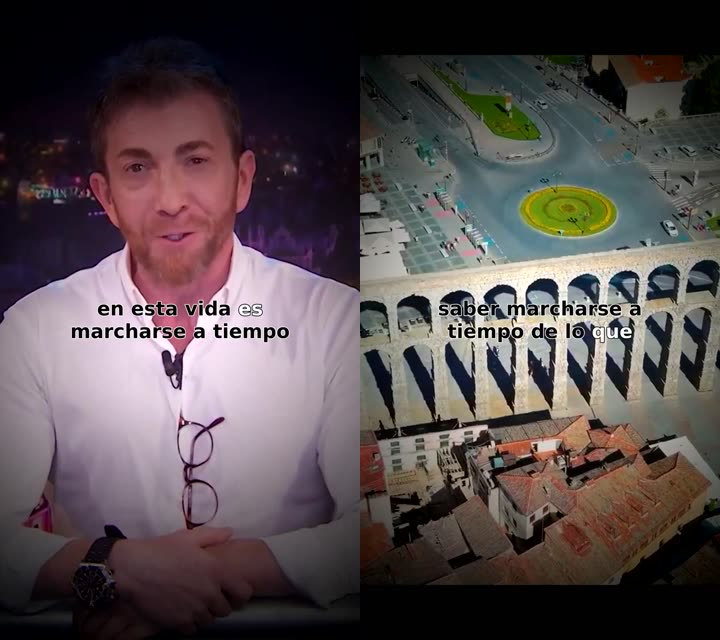
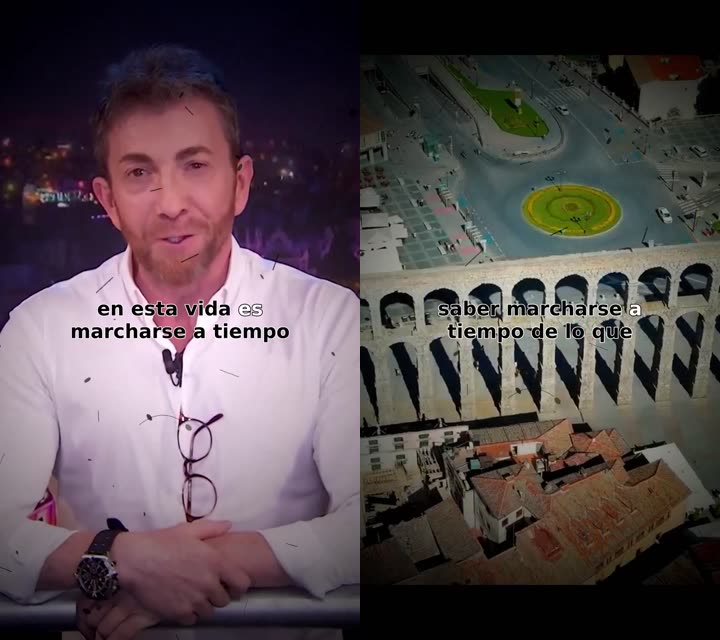
chore(viralizacion): miniaturas de los 8 estilos al dia
Incluye la del estilo D nuevo y borra la del desaparecido teal_orange.

Dos arreglos del script que lo tenian roto:

- Leia `hook_candidates.json` a pelo, y asi no obtiene la ruta del gancho
  PRE-CORTADO. Como los videos de gancho originales ya no estan en disco (se
  subieron a Drive para no llenar el VPS), el render moria con `-i None`.
  Ahora usa `scan_hook_candidates`, que si la resuelve — y no
  `allocate_hook`, que marcaria el gancho como gastado del banco.

- El fotograma del paisaje se sacaba en el segundo 9.0, donde el bloque de
  texto solia estar en su PRIMERA palabra: los estilos que apilan (D, E, G)
  parecian no apilar nada. A 8.4 se ve el bloque entero.

diff --git a/scripts/viralizacion_previews.py b/scripts/viralizacion_previews.py
@@ -36,7 +36,7 @@ from src.viralizacion.pipeline.renderer import (  # noqa: E402
     build_paisaje_segments,
     render_video,
 )
-from src.viralizacion.services import clip_library  # noqa: E402
+from src.viralizacion.services import allocator, clip_library  # noqa: E402
 
 # Ponente de las muestras. Se puede cambiar con VIRALIZACION_PREVIEW_PONENTE
 # para revisar el encuadre de otro (el recorte cuadrado depende de dónde
@@ -52,7 +52,9 @@ SAMPLE_DUR = 14.0
 # Instantes de los que se saca cada fotograma: dentro del gancho y ya en
 # pleno b-roll (después de que entren las barras de cine).
 T_GANCHO = 2.0
-T_PAISAJE = 9.0
+# 8.4 y no 9.0: en 9.0 el bloque de texto solía estar en su PRIMERA palabra y
+# los estilos que apilan (D, E, G) parecían no apilar nada.
+T_PAISAJE = 8.4
 
 
 def _muestra(key: str, hook: dict, audio: Path, words: list[dict]) -> Path:
@@ -126,11 +128,13 @@ def main() -> None:
     pedidos = sys.argv[1:] or list(styles.STYLE_ORDER)
     WORK.mkdir(parents=True, exist_ok=True)
 
-    import json
-
-    hook = json.loads(
-        (config.assets_root_path() / PONENTE / "hook_candidates.json").read_text()
-    )["candidates"][0]
+    # Vía `scan_hook_candidates` y NO leyendo el JSON a pelo: es quien
+    # resuelve la ruta del gancho pre-cortado (`clip`). Leyendo el fichero
+    # salía sin ella y el render moría con `-i None`, porque los vídeos de
+    # gancho originales ya no están en disco (se subieron a Drive).
+    # Tampoco se usa `allocator.allocate_hook`: eso marcaría el gancho como
+    # gastado, y una muestra no debe consumir del banco.
+    hook = allocator.scan_hook_candidates(PONENTE)[0]
     audio = config.ponente_audio_files(PONENTE)[0]
     words = transcriber.transcribe_words(
         PONENTE, audio, tmp_dir=WORK / "tmp", on_log=lambda _m: None
